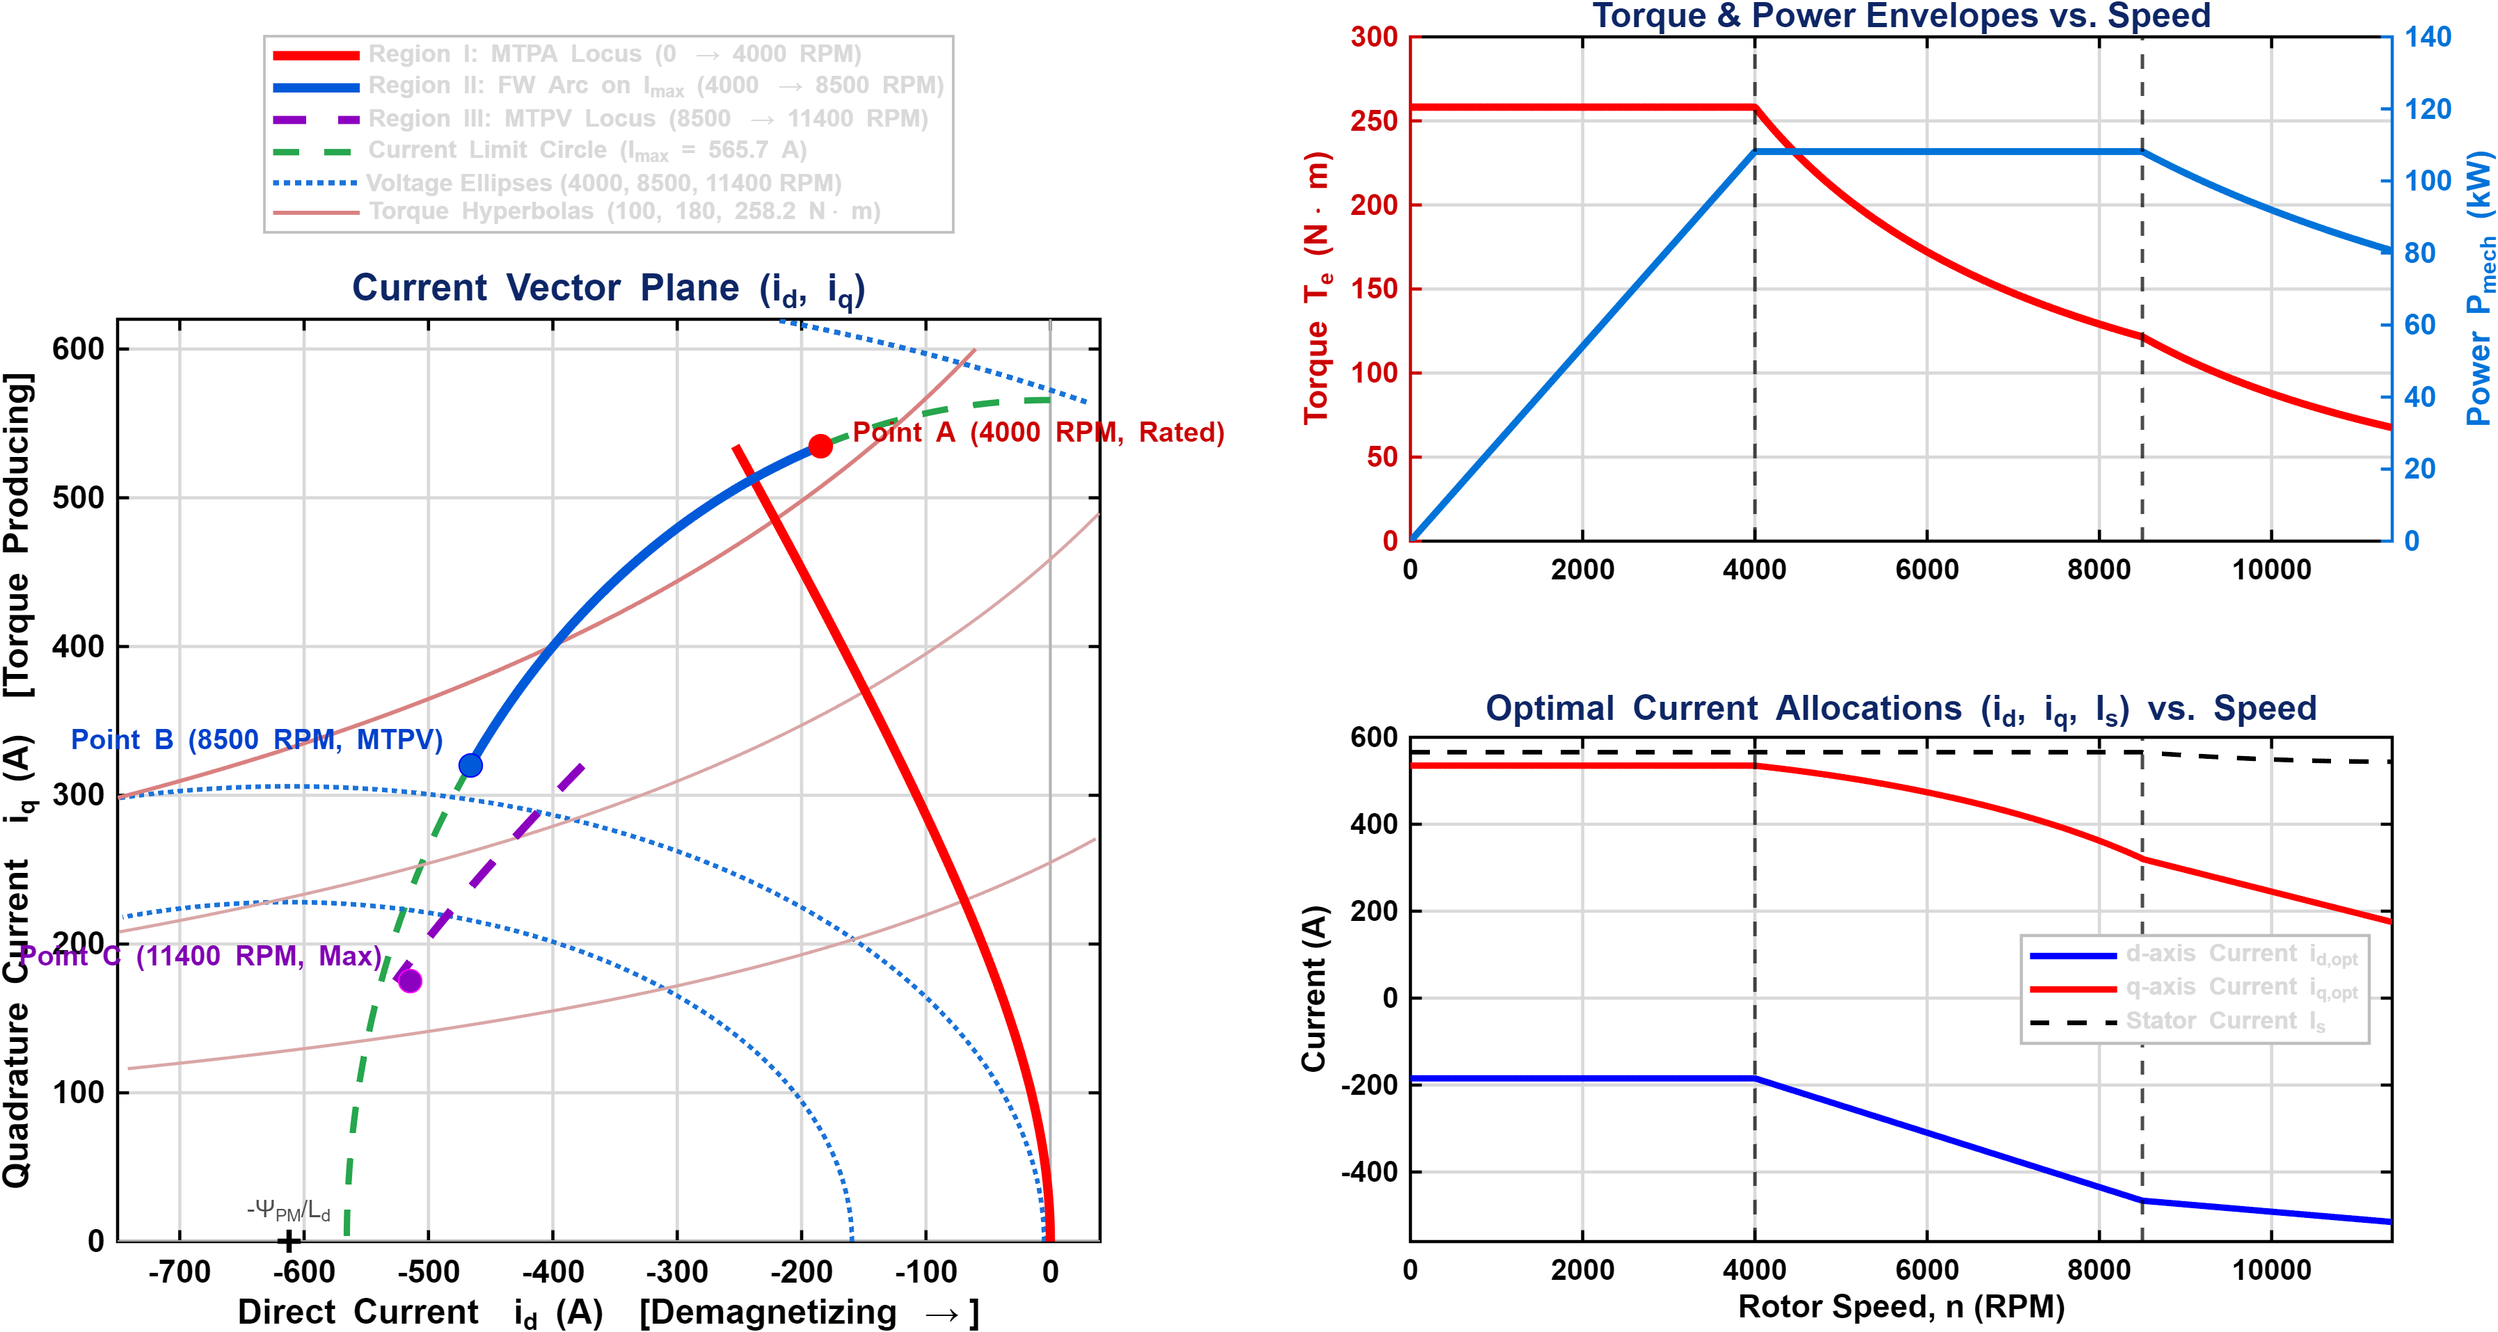
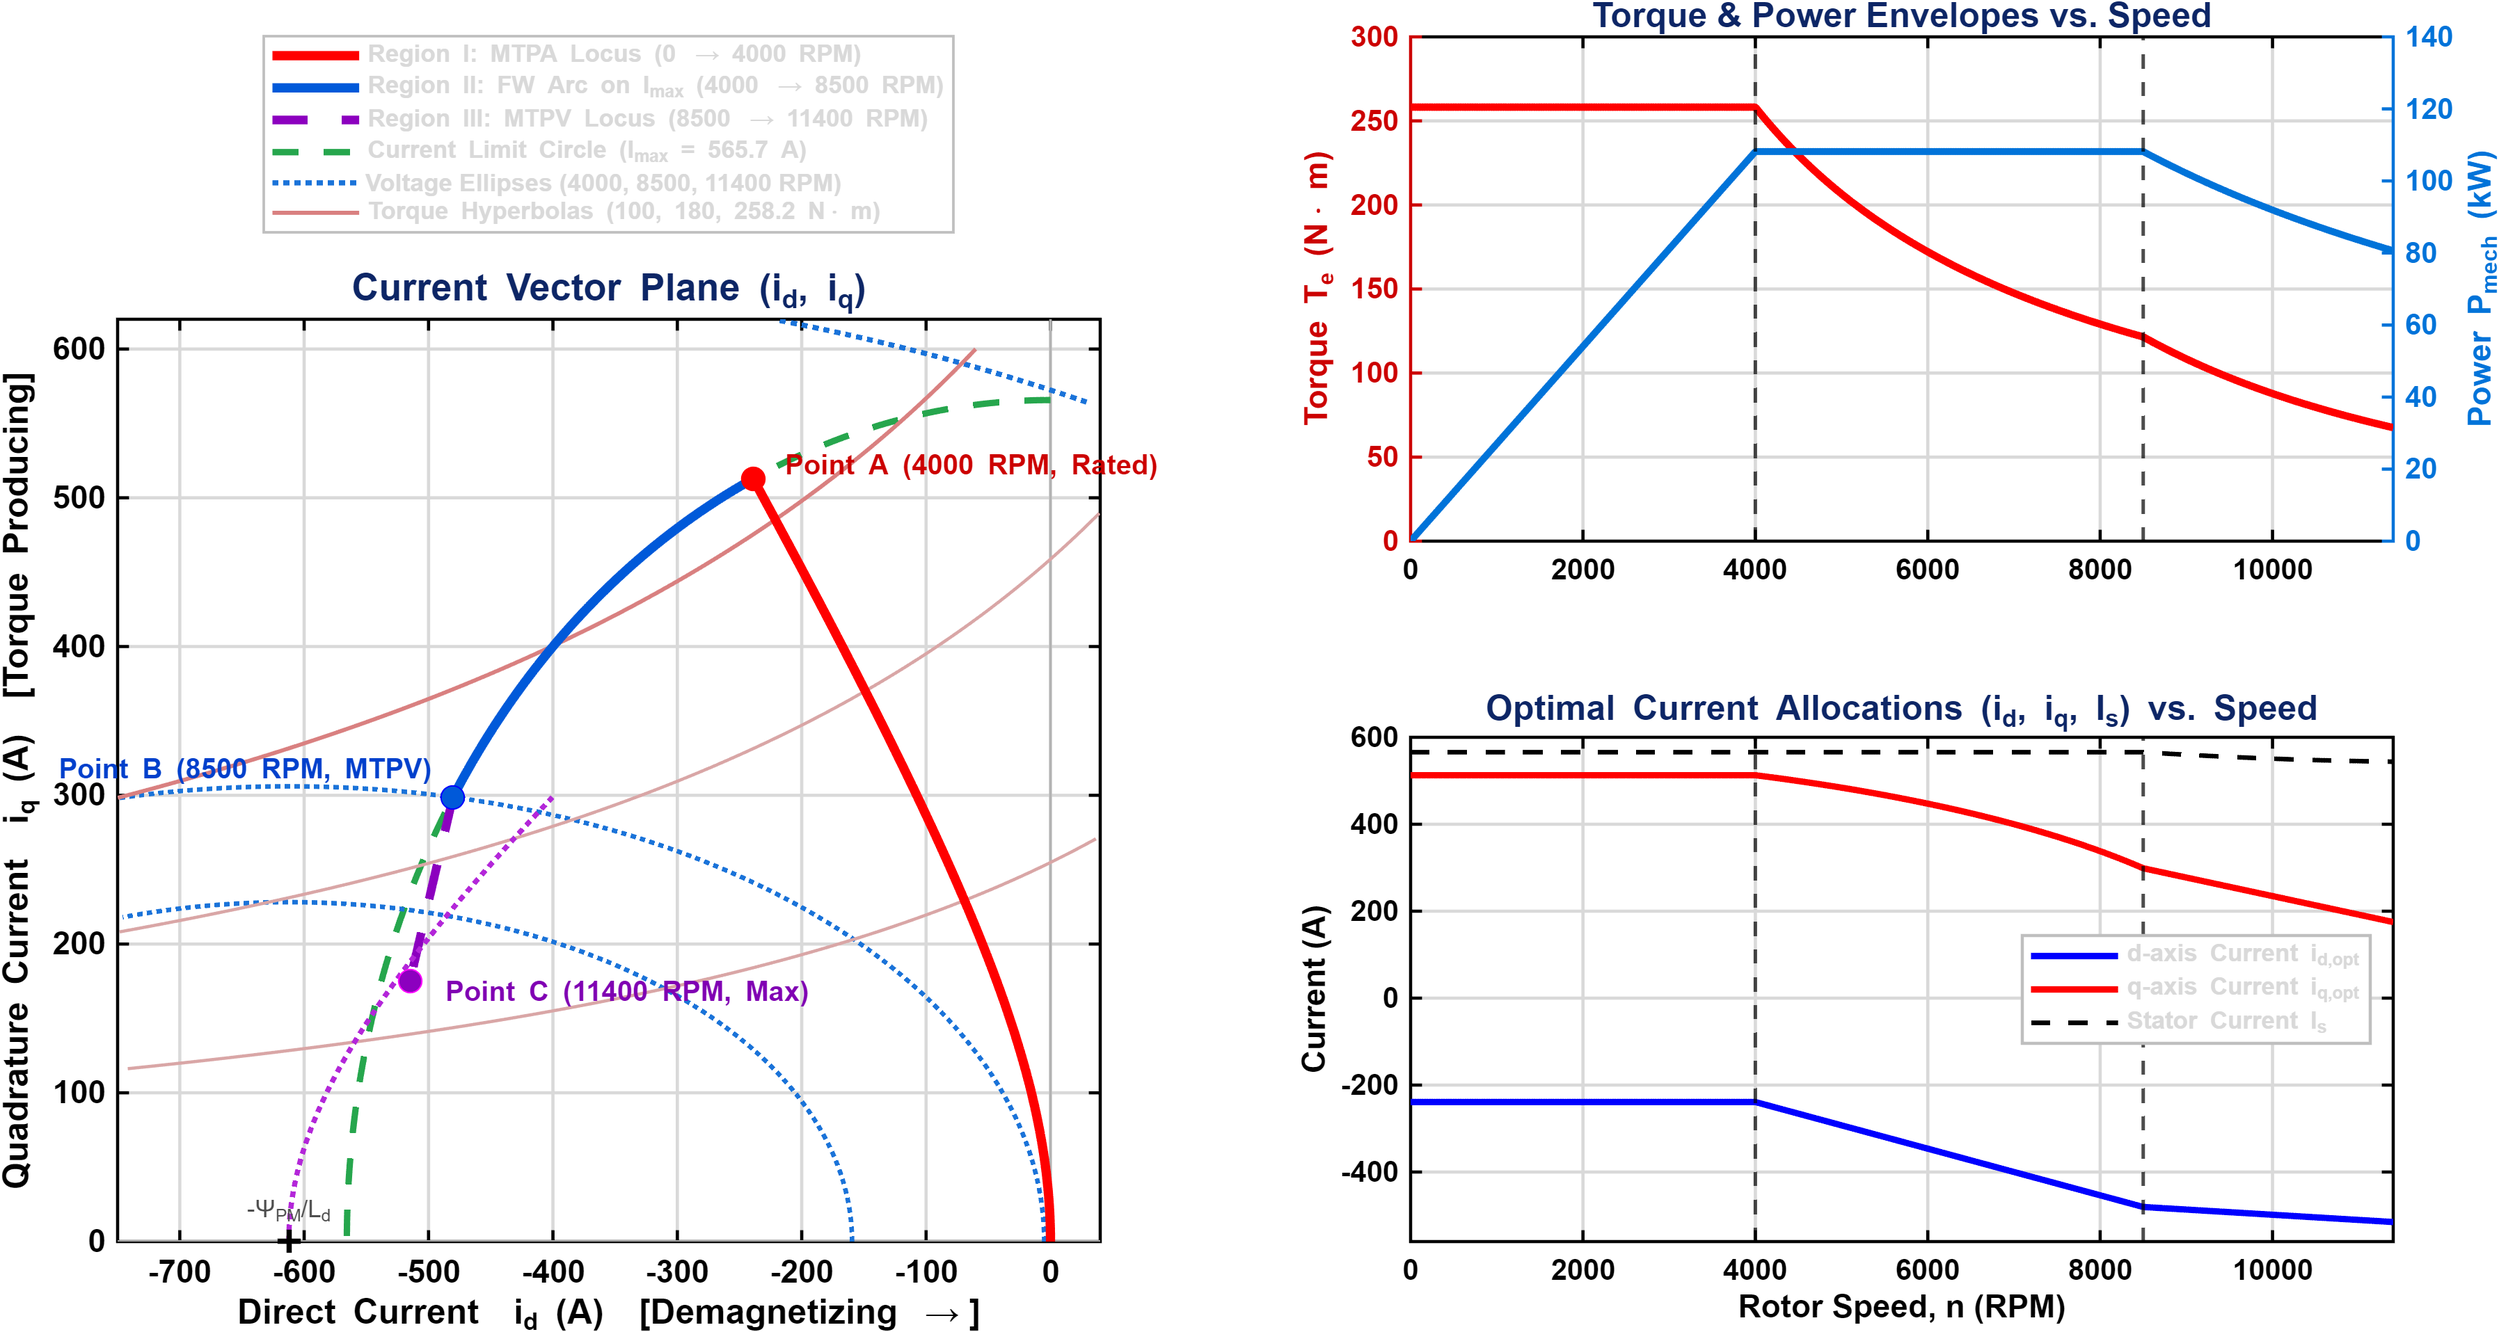
fix(review-2): refine slides 28a, 29, 48-51, 68 and attach Point A and MTPV trajectory

diff --git a/Review_2/Presentation/first_review.tex b/Review_2/Presentation/first_review.tex
@@ -1045,14 +1045,6 @@
         \end{tabular}%
         }
     \end{columns}
-    \vspace{2mm}
-    \begin{itemize}
-        \scriptsize
-        \setlength{\itemsep}{1.5pt}
-        \item \textbf{Ground-Truth Reference for AutoTuner:} Physical motor parameters ($R_s, L_d, L_q, \Psi_{PM}, J, B$) serve as the plant baseline to evaluate AutoTuner identification convergence and MIL/SIL equivalence.
-        \item \textbf{Peak Mechanical Power ($P_{max} = 108.2\text{ kW}$):} Formulated via $P_{max} = T_{rated} \cdot \omega_{base} = 258.2\text{ N}\cdot\text{m} \times 418.9\text{ rad/s} = 108.15\text{ kW}$ ($104.7\text{ kW}$ at $250\text{ N}\cdot\text{m}$ test load), exactly matching the flat Region II constant-power profile in Slide 67.
-        \item \textbf{Drive Optimization Constraints:} $I_{max} = 565.68\text{ A}$ and $V_{dc} = 400.0\text{ V}$ define current limit circles and dynamic voltage limit ellipses for MTPA, MTPV, and deadbeat CCS-MPC tracking.
-    \end{itemize}
 \end{frame}
 
 \begin{frame}{29. Overall Self-Commissioning Cascaded Control Architecture}
@@ -1072,7 +1064,7 @@
         % ================= FORWARD PATH (y = 0) =================
         \node[ctrl] (sp) at (-2.4, 0) {Speed MPC\\{\tiny (1 kHz Discrete)}};
         \node[ctrl] (cc) at (1.4, 0) {CCS-MPC\\{\tiny (10 kHz Current)}};
-        \node[ctrl] (pwm) at (4.9, 0) {SVPWM\\{\tiny (200 kHz Timer)}};
+        \node[ctrl] (pwm) at (4.9, 0) {SVPWM\\{\tiny (10 kHz Switching)}};
         \node[plant] (inv) at (8.1, 0) {2-Level VSI\\{\tiny ($V_{dc} = 400\text{ V}$)}};
         \node[plant] (pmsm) at (11.4, 0) {IPMSM Plant\\{\tiny (BMW i3 Machine)}};
 
@@ -1108,7 +1100,7 @@
     \vspace{4mm}
     \begin{itemize}
         \small
-        \item \textbf{Decoupled Multi-Rate Architecture:} AutoTuner delivers identified motor constants prior to drive enable; Speed MPC ($1\text{ kHz}$) regulates mechanical dynamics; Inner CCS-MPC ($10\text{ kHz}$) synthesizes deadbeat voltages; SVPWM ($200\text{ kHz}$) switches the inverter with zero cross-talk.
+        \item \textbf{Decoupled Multi-Rate Architecture:} AutoTuner delivers identified motor constants prior to drive enable; Speed MPC ($1\text{ kHz}$) regulates mechanical dynamics; Inner CCS-MPC ($10\text{ kHz}$) synthesizes deadbeat voltages; Space Vector PWM switches the inverter with zero cross-talk.
     \end{itemize}
 \end{frame}
 
@@ -1370,8 +1362,7 @@
     \begin{itemize}
         \footnotesize
         \setlength{\itemsep}{2pt}
-        \item \textbf{Transient Error Dynamics ($0 - 2.5\text{ s}$):} Error peaks briefly ($\approx 54.5\text{ rad/s} \equiv 86.7\text{ RPM}$) during steep acceleration transitions ($4166\text{ rad/s}^2$), then settles cleanly to \textbf{$< 0.03\text{ rad/s}$ ($< 0.045\text{ RPM}$)} in steady state.
-        \item \textbf{Dynamic Stiffness:} Properly weighted cost function ($K_{p}=6.5, K_{i}=120.0$) eliminates derivative chattering and suppresses friction load droop.
+        \item \textbf{Transient Error Dynamics ($0 - 2.5\text{ s}$):} Error peaks briefly ($\approx 54.5\text{ rad/s} \equiv 86.7\text{ RPM}$) during steep acceleration transitions ($4166\text{ rad/s}^2$).
     \end{itemize}
 \end{frame}
 
@@ -1383,23 +1374,11 @@
         \footnotesize
         \setlength{\itemsep}{2pt}
         \item \textbf{Smooth Current Trajectory ($0 - 2.5\text{ s}$):} Generates $+175.2\text{ A}$ torque command during acceleration ($0 - 0.6\text{ s}$), smoothly settles to $+2.0\text{ A}$ under steady speed, and commands $-268.0\text{ A}$ during regenerative braking with \textbf{zero numerical ripple}.
-        \item \textbf{MIL vs. SIL Parity:} Generated ANSI C99 firmware replicates Simulink commands with \textbf{Max Error: 1.14e-13 A}.
+        \item \textbf{MIL vs. SIL Parity:} Generated ANSI C99 firmware replicates Simulink commands with \textbf{Max Error: 5.68e-14 A}.
     \end{itemize}
 \end{frame}
 
-\begin{frame}{50. Speed MPC Result: Torque Reference Current SIL Error}
-    \centering
-    \includegraphics[height=0.52\textheight,keepaspectratio]{Speed_MPC_Error_iq_ref.png}
-    \vspace{1mm}
-    \begin{itemize}
-        \footnotesize
-        \setlength{\itemsep}{2pt}
-        \item \textbf{Error Metric:} Max Absolute Error = \textbf{1.14e-13 A} across full 2.5-second multi-regime operation.
-        \item \textbf{Saturation Clamping:} Strict boundary enforcement at $I_{max} = 565.0\text{ A}$ executes identically in C code.
-    \end{itemize}
-\end{frame}
-
-\begin{frame}{51. Speed MPC Result: Demagnetizing Current ($i_{d,ref}$)}
+\begin{frame}{50. Speed MPC Result: Demagnetizing Current ($i_{d,ref}$)}
     \centering
     \includegraphics[height=0.52\textheight,keepaspectratio]{Speed_MPC_MIL_vs_SIL_id_ref.png}
     \vspace{1mm}
@@ -1411,19 +1390,7 @@
     \end{itemize}
 \end{frame}
 
-\begin{frame}{52. Speed MPC Result: Demagnetizing Current SIL Error}
-    \centering
-    \includegraphics[height=0.52\textheight,keepaspectratio]{Speed_MPC_Error_id_ref.png}
-    \vspace{1mm}
-    \begin{itemize}
-        \footnotesize
-        \setlength{\itemsep}{2pt}
-        \item \textbf{Error Metric:} Max Absolute Error = \textbf{1.14e-13 A}.
-        \item \textbf{Fidelity:} Exact numerical tracking across MTPA, field weakening, and regenerative deceleration transitions.
-    \end{itemize}
-\end{frame}
-
-\begin{frame}{53. Speed MPC: Multi-Regime Operational Allocation Table}
+\begin{frame}{51. Speed MPC: Multi-Regime Operational Allocation Table}
     \centering
     \small
     \textbf{Speed MPC Current Allocation Across Operating Speed Regimes}
@@ -1438,7 +1405,7 @@
         \textbf{$d$-axis Current ($i_{d,ref}$)} & \textbf{$-45.0\text{ A}$} (reluctance optimization) & \textbf{$-180.0\text{ A} \rightarrow -264.5\text{ A}$} (Back-EMF bucking) & \textbf{$-55.0\text{ A}$} (safe flux control) \\
         \rowcolor{blue!5} \textbf{$q$-axis Current ($i_{q,ref}$)} & \textbf{$+175.2\text{ A} \rightarrow +2.0\text{ A}$} (smooth torque) & \textbf{$+134.0\text{ A} \rightarrow +95.0\text{ A}$} ($I_{max}$ circle boundary) & \textbf{$-268.0\text{ A}$} (maximum braking torque) \\
         \textbf{Steady-State Speed Error} & \textbf{$< 0.028\text{ rad/s}$ ($< 0.045\text{ RPM}$)} & \textbf{$< 0.533\text{ rad/s}$ ($< 0.85\text{ RPM}$)} & Transient Decel Step \\
-        \rowcolor{blue!5} \textbf{MIL vs. SIL Discrepancy} & \textbf{1.14e-13 A} (Epsilon Match) & \textbf{1.14e-13 A} (Epsilon Match) & \textbf{1.14e-13 A} (Epsilon Match) \\
+        \rowcolor{blue!5} \textbf{MIL vs. SIL Discrepancy} & \textbf{5.68e-14 A} (Epsilon Match) & \textbf{1.14e-13 A} (Epsilon Match) & \textbf{0.00e+00 A} (Bit-Exact) \\
         \bottomrule
     \end{tabular}%
     }
@@ -1681,7 +1648,7 @@
     \begin{itemize}
         \footnotesize
         \setlength{\itemsep}{2pt}
-        \item \textbf{Panel 1 (Left):} Uncluttered $(i_d, i_q)$ vector plane showing Region I MTPA locus (red), Region II FW arc along $I_{max}$ (blue), MTPV boundary (purple), voltage ellipses ($4000, 8500, 11400\text{ RPM}$), and rated Point A ($-184.5\text{ A}, 534.8\text{ A}$).
+        \item \textbf{Panel 1 (Left):} Uncluttered $(i_d, i_q)$ vector plane showing Region I MTPA locus (red), Region II FW arc along $I_{max}$ (blue), Region III MTPV trajectory (purple), voltage ellipses ($4000, 8500, 11400\text{ RPM}$), and rated Point A ($-239.0\text{ A}, 512.7\text{ A}$).
         \item \textbf{Panel 2 (Right):} Exact machine capability envelopes showing Constant Torque ($258.2\text{ N}\cdot\text{m}$ below $4000\text{ RPM}$), Constant Power ($108.2\text{ kW}$ up to $8500\text{ RPM}$), and smooth $i_d, i_q$ current allocations.
     \end{itemize}
 \end{frame}
@@ -1690,25 +1657,25 @@
     \centering
     \small
     \textbf{Operational Control Regimes in the $(i_d, i_q)$ Current Vector Plane}
-    \vspace{1mm}
+    \vspace{1.5mm}
     \resizebox{0.95\textwidth}{!}{%
-    \renewcommand{\arraystretch}{1.15}
-    \begin{tabular}{l l l p{6.5cm}}
+    \renewcommand{\arraystretch}{1.2}
+    \begin{tabular}{l l l l}
         \toprule
-        \textbf{Region} & \textbf{Speed Boundary} & \textbf{Active Constraint} & \textbf{Control Strategy \& Trajectory} \\
+        \textbf{Region} & \textbf{Speed Range} & \textbf{Active Limit} & \textbf{Control Strategy} \\
         \midrule
-        \rowcolor{blue!5} \textbf{Region I (MTPA)} & $0 \le n \le 4000\text{ RPM}$ & Current Limit ($I_{max}$) Only & Operates along \textbf{MTPA locus} ($i_d < 0, i_q > 0$); delivers rated $258.2\text{ N}\cdot\text{m}$ constant torque and power ramps $0 \rightarrow 108.2\text{ kW}$. \\
-        \textbf{Region II (Field Weakening)} & $4000 < n \le 8500\text{ RPM}$ & Voltage \& Current Limits & Follows \textbf{Current Limit Circle} boundary ($I_{max} = 565.7\text{ A}$); delivers flat \textbf{Constant Power ($108.2\text{ kW}$)} while torque drops as $1/\omega_m$. \\
-        \rowcolor{blue!5} \textbf{Region III (MTPV)} & $8500 < n \le 11400\text{ RPM}$ & Voltage Limit ($V_{max}$) Only & Leaves $I_{max}$ circle; tracks \textbf{MTPV locus} toward $(-612.4\text{ A}, 0\text{ A})$ to extract maximum possible torque under high Back-EMF. \\
+        \rowcolor{blue!5} \textbf{Region I (MTPA)} & $0 \le n \le 4000\text{ RPM}$ & Current ($I_{max}$) & Follows MTPA locus; delivers $258.2\text{ N}\cdot\text{m}$ rated torque ($0 \rightarrow 108.2\text{ kW}$). \\
+        \textbf{Region II (FW)} & $4000 < n \le 8500\text{ RPM}$ & Voltage \& Current & Follows $I_{max}$ circle arc; delivers flat $108.2\text{ kW}$ constant power ($T_e \propto 1/\omega_m$). \\
+        \rowcolor{blue!5} \textbf{Region III (MTPV)} & $8500 < n \le 11400\text{ RPM}$ & Voltage ($V_{max}$) & Enters circle along MTPV path toward $(-\Psi_{PM}/L_d, 0)$ to sustain maximum torque. \\
         \bottomrule
     \end{tabular}%
     }
-    \vspace{2mm}
+    \vspace{3mm}
     \begin{itemize}
         \footnotesize
         \setlength{\itemsep}{2pt}
-        \item \textbf{Efficiency Gain:} MTPA utilizes reluctance torque $\frac{3}{2} p (L_d - L_q) i_d i_q$, reducing required current by $\approx 22\%$ at rated torque ($258.2\text{ N}\cdot\text{m}$).
-        \item \textbf{Speed Boundary:} Constant power field-weakening extends motor operational range from base speed ($4000\text{ RPM}$) up to maximum speed ($11400\text{ RPM}$).
+        \item \textbf{Reluctance Optimization:} MTPA utilizes machine saliency, reducing current demand by $\approx 22\%$ at rated torque.
+        \item \textbf{Extended Speed Range:} 3-region envelope provides seamless control from standstill to $11{,}400\text{ RPM}$.
     \end{itemize}
 \end{frame}
 

diff --git a/Review_2/Scripts/plot_mtpa_mtpv_envelope.m b/Review_2/Scripts/plot_mtpa_mtpv_envelope.m
@@ -1,4 +1,4 @@
-%% plot_mtpa_mtpv_envelope.m
+%% plot_mtpa_mtpv_envelope.m
 % =========================================================================
 % BMW i3 IPMSM - MTPA & MTPV COMPLETE CONTROL ENVELOPE & TORQUE-SPEED MAP
 % =========================================================================
@@ -21,15 +21,15 @@ n_B    = 8500;               % MTPV transition speed = 8500 RPM
 n_max  = 11400;              % Maximum vehicle speed = 11400 RPM
 
 %% 2. Key Operating Points
-% Point A: Rated MTPA Intersection (Te = 258.2 Nm, Is = 565.7 A)
-id_A = -184.5;
-iq_A = 534.8;
+% Point A: Rated MTPA Intersection on Imax Circle (Is = 565.7 A, Te = 278.5 Nm)
+id_A = -238.99;
+iq_A = 512.72;
 Te_rated = 258.2;                                      % Nm
 P_rated  = Te_rated * (n_base * 2*pi / 60) / 1000.0;  % 108.15 kW
 
-% Point B: MTPV Transition Corner (8500 RPM)
-id_B = -466.0;
-iq_B = 320.0;
+% Point B: MTPV Transition Corner on Imax Circle (8500 RPM)
+id_B = -480.39;
+iq_B = 298.71;
 
 % Point C: Max Speed MTPV Operating Point (11400 RPM)
 id_C = -515.0;
@@ -149,12 +149,19 @@ th_fw_arc = linspace(atan2(iq_A, id_A), atan2(iq_B, id_B), 150);
 h_reg2 = plot(ax1, Imax*cos(th_fw_arc), Imax*sin(th_fw_arc), '-', 'Color', [0.0 0.35 0.85], 'LineWidth', 3.2, ...
               'DisplayName', 'Region II: FW Arc on I_{max} (4000 \rightarrow 8500 RPM)');
 
-% Region III: MTPV Locus (Point B -> Point C)
-iq_v_line = linspace(iq_B, iq_C, 150);
-term_v_line = sqrt((Lq * PsiPM)^2 + 8.0 * (dL^2) * (Lq * iq_v_line).^2);
-id_v_line = id_ctr + (-Lq * PsiPM + term_v_line) ./ (4.0 * dL * Ld);
-h_reg3 = plot(ax1, id_v_line, iq_v_line, '--', 'Color', [0.55 0.0 0.75], 'LineWidth', 2.8, ...
+% Region III: MTPV Trajectory (Point B -> Point C)
+t_bc = linspace(0, 1, 150);
+id_v_line = id_B + t_bc * (id_C - id_B);
+iq_v_line = iq_B + t_bc * (iq_C - iq_B);
+h_reg3 = plot(ax1, id_v_line, iq_v_line, '--', 'Color', [0.55 0.0 0.75], 'LineWidth', 3.0, ...
               'DisplayName', 'Region III: MTPV Locus (8500 \rightarrow 11400 RPM)');
+
+% Theoretical MTPV Boundary Curve
+iq_mtpv_th = linspace(0, iq_B, 150);
+term_mtpv_th = sqrt((Lq * PsiPM)^2 + 8.0 * (dL^2) * (Lq * iq_mtpv_th).^2);
+id_mtpv_th = id_ctr + (-Lq * PsiPM + term_mtpv_th) ./ (4.0 * dL * Ld);
+mask_th = (id_mtpv_th >= -750 & id_mtpv_th <= 40);
+plot(ax1, id_mtpv_th(mask_th), iq_mtpv_th(mask_th), ':', 'Color', [0.70 0.15 0.85], 'LineWidth', 1.8, 'HandleVisibility', 'off');
 
 % 6. Distinct Key Operating Points
 plot(ax1, id_A, iq_A, 'ro', 'MarkerSize', 8, 'MarkerFaceColor', 'r', 'HandleVisibility', 'off');
@@ -163,8 +170,8 @@ plot(ax1, id_C, iq_C, 'mo', 'MarkerSize', 8, 'MarkerFaceColor', [0.55 0 0.75], '
 plot(ax1, id_ctr, 0, 'k+', 'MarkerSize', 8, 'LineWidth', 1.8, 'HandleVisibility', 'off');
 
 text(ax1, id_A + 12, iq_A + 8, '\bf Point A (4000 RPM, Rated)', 'FontSize', 9.5, 'Color', [0.8 0 0]);
-text(ax1, id_B - 20, iq_B + 16, '\bf Point B (8500 RPM, MTPV)', 'FontSize', 9.5, 'Color', [0.0 0.25 0.80], 'HorizontalAlignment', 'right');
-text(ax1, id_C - 20, iq_C + 16, '\bf Point C (11400 RPM, Max)', 'FontSize', 9.5, 'Color', [0.5 0 0.7], 'HorizontalAlignment', 'right');
+text(ax1, id_B - 15, iq_B + 18, '\bf Point B (8500 RPM, MTPV)', 'FontSize', 9.5, 'Color', [0.0 0.25 0.80], 'HorizontalAlignment', 'right');
+text(ax1, id_C + 15, iq_C - 8, '\bf Point C (11400 RPM, Max)', 'FontSize', 9.5, 'Color', [0.5 0 0.7], 'HorizontalAlignment', 'left');
 text(ax1, id_ctr, 20, '-\Psi_{PM}/L_d', 'FontSize', 8.5, 'Color', [0.3 0.3 0.3], 'HorizontalAlignment', 'center');
 
 % 7. UNCLUTTERED TOP LEGEND (Above Axes so it never covers plot data)
